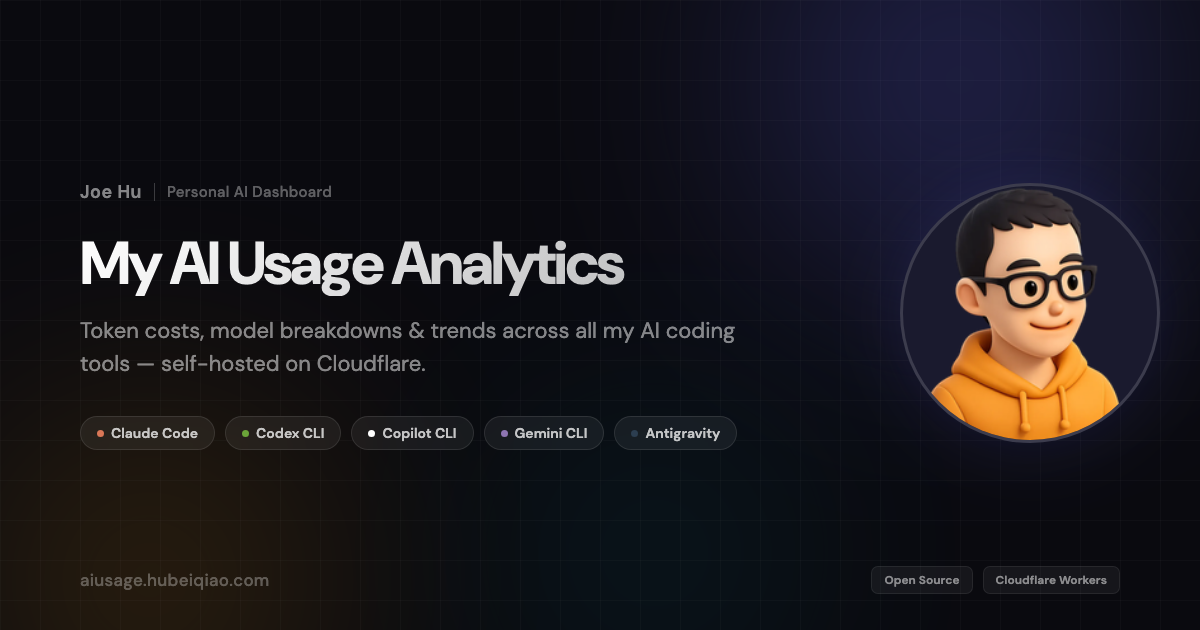
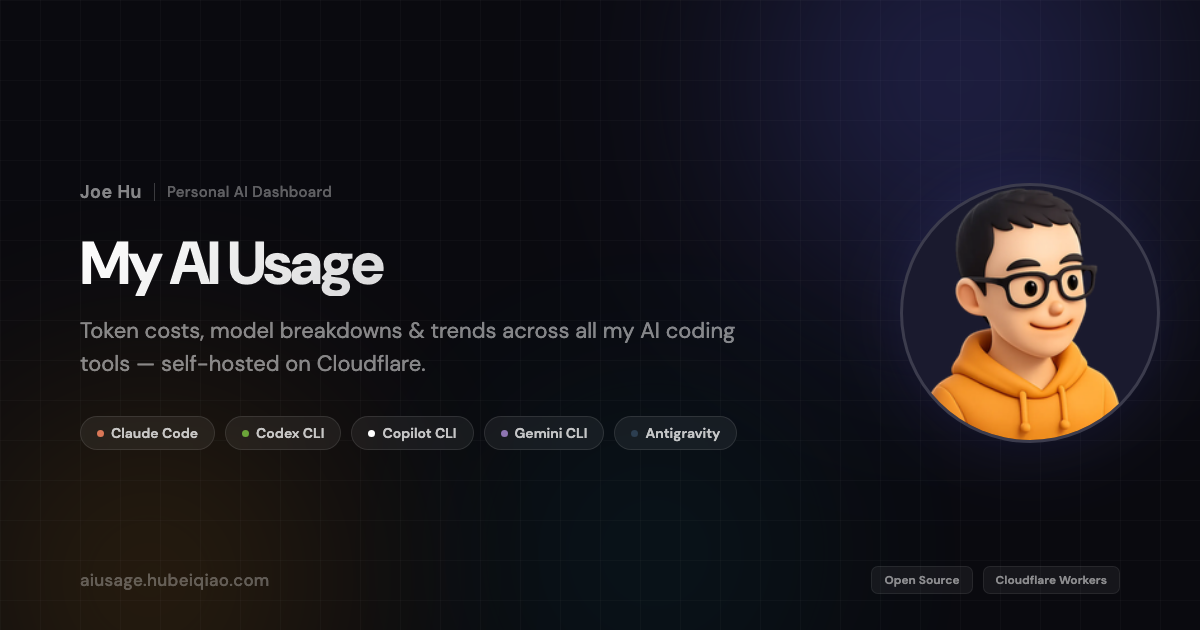
fix(dashboard): update OG title to "Joe's AI Usage" and regenerate image

Changed region(s): [[0.3083, 0.3619, 0.5242, 0.4825]]

diff --git a/packages/dashboard/index.html b/packages/dashboard/index.html
@@ -10,7 +10,7 @@
 
     <!-- Open Graph -->
     <meta property="og:type" content="website" />
-    <meta property="og:title" content="Joe's AI Usage Analytics" />
+    <meta property="og:title" content="Joe's AI Usage" />
     <meta property="og:description" content="Token costs, model breakdowns & trends across all my AI coding tools — self-hosted on Cloudflare." />
     <meta property="og:image" content="https://aiusage.hubeiqiao.com/og-image.png" />
     <meta property="og:image:width" content="1200" />
@@ -19,7 +19,7 @@
 
     <!-- Twitter Card -->
     <meta name="twitter:card" content="summary_large_image" />
-    <meta name="twitter:title" content="Joe's AI Usage Analytics" />
+    <meta name="twitter:title" content="Joe's AI Usage" />
     <meta name="twitter:description" content="Token costs, model breakdowns & trends across all my AI coding tools — self-hosted on Cloudflare." />
     <meta name="twitter:image" content="https://aiusage.hubeiqiao.com/og-image.png" />
     <link rel="preconnect" href="https://fonts.googleapis.com" />

diff --git a/og-image.html b/og-image.html
@@ -217,7 +217,7 @@
       <span class="personal-label">Personal AI Dashboard</span>
     </div>
 
-    <h1>My AI Usage Analytics</h1>
+    <h1>My AI Usage</h1>
 
     <p class="subtitle">
       Token costs, model breakdowns &amp; trends across
